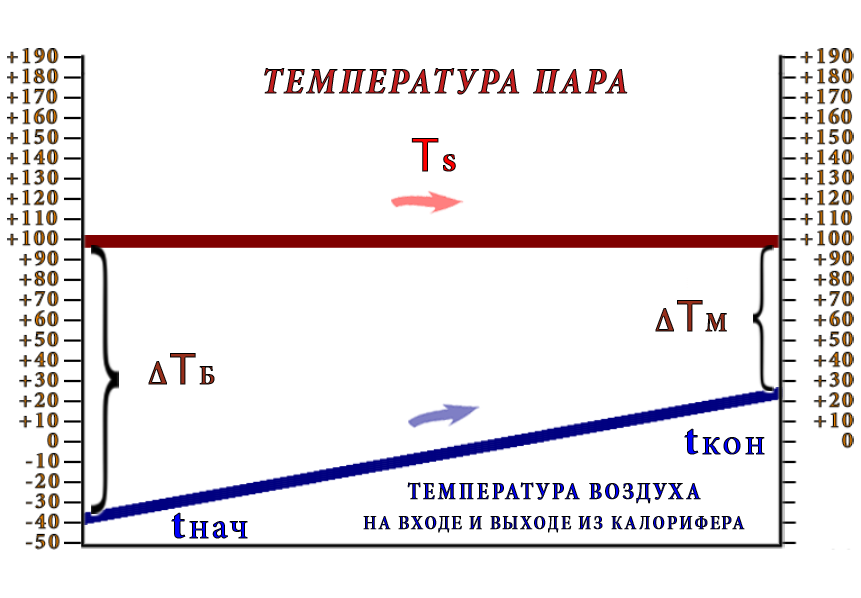
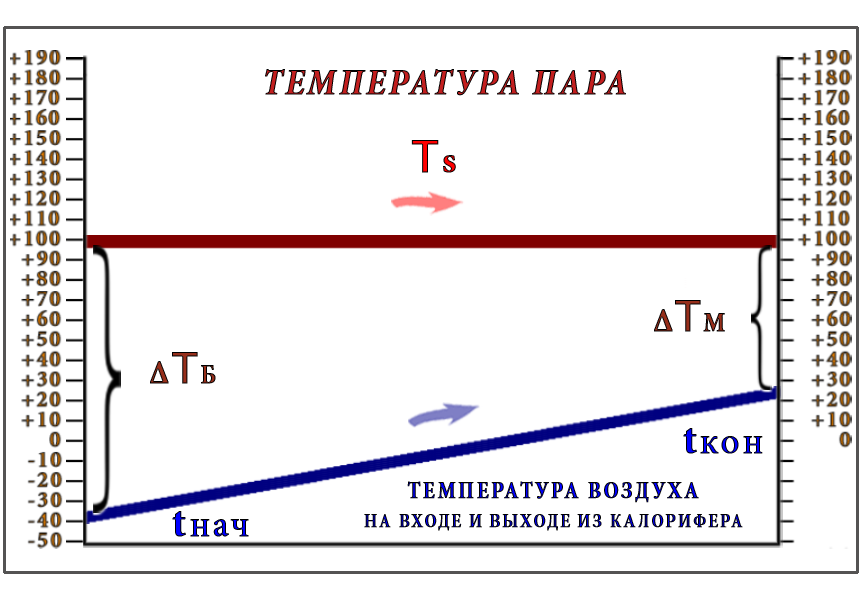
upload images

diff --git a/app/tehnicheskaya-stranica/page.tsx b/app/tehnicheskaya-stranica/page.tsx
@@ -319,7 +319,7 @@ const steamHeaterEntries: TechEntry[] = [
   },
   {
     url: "/podbor-raschet-kaloriferov",
-    img: "/img/tehnicheskaya/agregat_std_model_teplo.png",
+    img: "/img/tehnicheskaya/kalorifer_model_steam.png",
     title: "Подробный поэтапный расчет и подбор паровых калориферов",
     description:
       "• Таблицы и формулы для подбора паровых воздухонагревателей серии КПСк, КП и КФБ-А П • Расчетная температура воздуха для подбора паровых калориферов • Нахождение фактической тепловой производительности и расхода пара • Выбор оптимального варианта по установленному запасу площади поверхности теплообмена парового воздухонагревателя",
